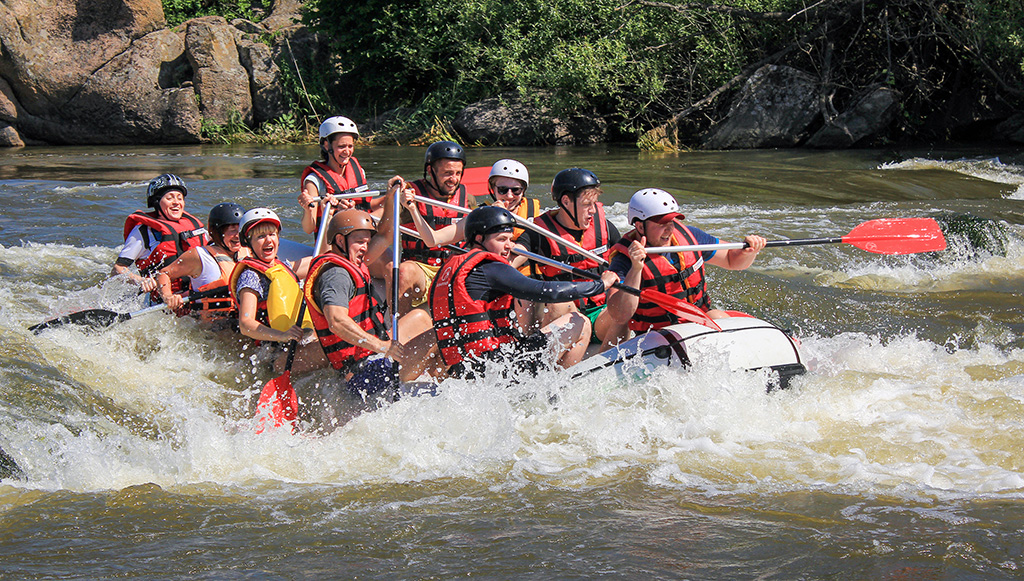
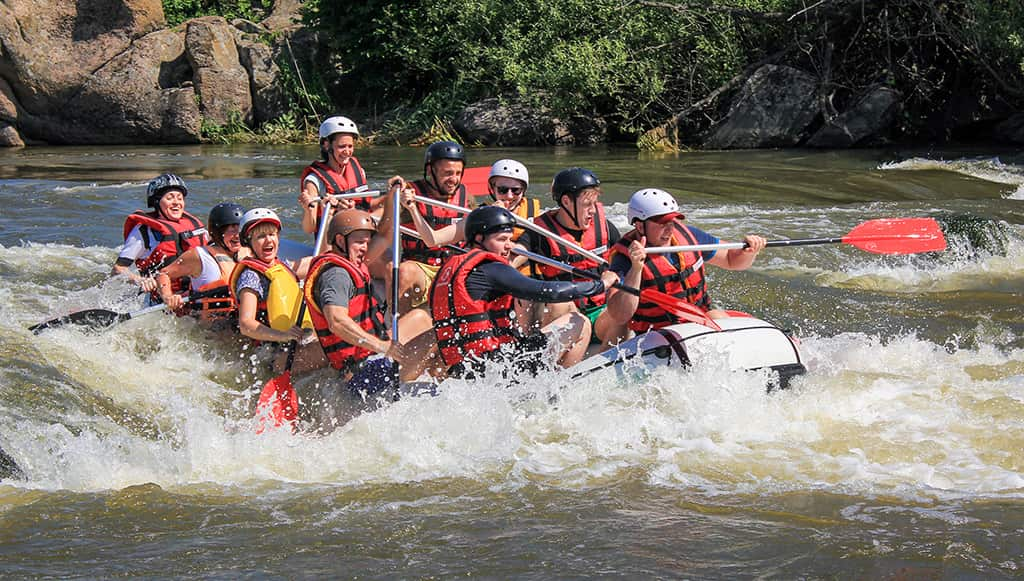
wwr rafting about us

diff --git a/wwr/styles/rafting.css b/wwr/styles/rafting.css
@@ -76,8 +76,13 @@ article {
     bottom: 20px;
     left: 20px;
     right: 20px;
-    background-color: rgba(202, 233, 255, 0.85);
+    background-color: var(--accent2-color);
     color: var(--accent1-color);
+    opacity: 0.9;
+}
+
+footer {
+    border-top: 3px solid var(--secondary-color);
 }
 
 .hero article img {
